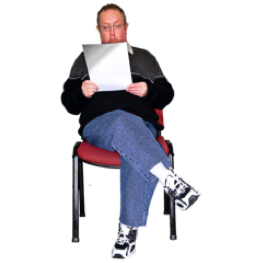
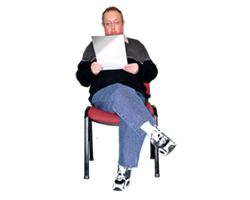
Changed size of pictures and remove fixed size attributes from html

Changed region(s): [[0.224, 0.0, 0.784, 0.99]]

diff --git a/Layer 3 Sample.html b/Layer 3 Sample.html
@@ -72,63 +72,63 @@
 
 <br>
 	
-<img src="img/School%201.png"  class="layer3" alt="Image" height= "200px" width = "200px"/>
+<img src="img/School%201.png"  class="layer3" alt="Image"/>
 	
 <p class="layer3"> Sometimes a child cannot get a place  in a school.<br><br>
 Sometimes a child can be suspended from  school for more than 20 days <br><br>
 Sometimes a child can be expelled from school for good.<br><br><br></p>
 
-<img src="img/School%204.png"  class="layer3" alt="Image" height= "100px" width = "200px"/>	
+<img src="img/School%204.png"  class="layer3" alt="Image"/>	
 	
 <p class = layer3>If this happens their parents can appeal the decision to refuse a place or expel or suspend by filling out a form.<br><br>
 This is called a Section 29 Appeal<br><br><br><br></p>
 	
-<img src="img/School%204.png"  class="layer3" alt="Image" height= "100px" width = "200px" />	
+<img src="img/School%204.png"  class="layer3" alt="Image" />	
 	
 <p class="layer3">It is a good idea get help from an advocate or legal person when filling out the form.<br><br><br><br><br></p>
 
-<img src="img/School%204.png"  class="layer3" alt="Image" height= "100px" width = "200px">	
+<img src="img/School%204.png"  class="layer3" alt="Image">	
  
 <p class="layer3">The form is sent to the Department of Education and Skills. It must be sent in less than 42 days.<br><br>
 Tell them why the decision was not fair.<br><br><br><br></p>
 	
-<img src="img/School%205.png"  class="layer3" alt="Image" height= "100px" width = "180px">	
+<img src="img/School%205.png"  class="layer3" alt="Image">	
 
 <p class="layer3">If the school is a local Education and Training Board school you must send your appeal form to the Education and Training Board first.<br><br><br><br></p>
 	
-<img src="img/School%206.png"  class="layer3" alt="Image" height= "200px" width = "200px">	
+<img src="img/School%206.png"  class="layer3" alt="Image">	
 	
 <p class="layer3">A person called a mediator will come to talk to you about your appeal. Tell them why the decision was not fair. Give them any letters or reports to support your case.<br><br>
 The mediator will also talk to the school.<br><br>
 The mediator tries to get an agreement.<br><br><br></p>
 	
-<img src="img/School%207.png"  class="layer3" alt="Image" height= "200px" width = "200px">	
+<img src="img/School%207.png"  class="layer3" alt="Image">	
 
 <p class="layer3">If the school and parent cannot come to an agreement they will meet an appealcommittee of 3 people.<br><br>
 You can bring an advocate or another person with you.<br><br>
 The mediator will send a report to the committee. You should send any letters or reports you have to the committee before the meeting.<br><br><br></p>
 	
-<img src="img/School%208.png"  class="layer3" alt="Image" height= "200px" width = "200px">	
+<img src="img/School%208.png"  class="layer3" alt="Image">	
 
 <p class="layer3">You can tell the committee why the school decision was unfair.<br><br>
 The school will say why they made their decision.<br><br>
 You and the committee can ask questions of the school.<br><br><br></p>
 	
-<img src="img/School%209.png"  class="layer3" alt="Image" height= "200px" width = "200px">	
+<img src="img/School%209.png"  class="layer3" alt="Image">	
 
 <p class="layer3">The 3 people on the committee will decide if you or the school is right.<br><br>
 	The committee will tell the Department of Education their decision<br><br><br></p>
 	
-<img src="img/School%2010.png"  class="layer3" alt="Image" height= "200px" width = "200px">	
+<img src="img/School%2010.png"  class="layer3" alt="Image">	
 	
 <p class="layer3">You will get a letter from the Department of Education with the decision of the committee. The school will also get this letter.<br><br>
 The school will either have to take the child into the school or they will not.<br><br><br> </p>
 	
-<img src="img/School%2011.png"  class="layer3" alt="Image" height= "200px" width = "200px">	
+<img src="img/School%2011.png"  class="layer3" alt="Image">	
 
 <p class="layer3">If you are unhappy about the committee decision you could go to court.<br><br><br><br><br><br><br></p>
 	
-<img src="img/School%2012.png"  class="layer3" alt="Image" height= "100px" width = "200px">	
+<img src="img/School%2012.png"  class="layer3" alt="Image">	
 
 <p class="layer3">If you are unhappy about the committee decision you could contact the Office of the Children’s Ombudsman <br><br>
 Tel: 1800 20 20 40<br><br>
